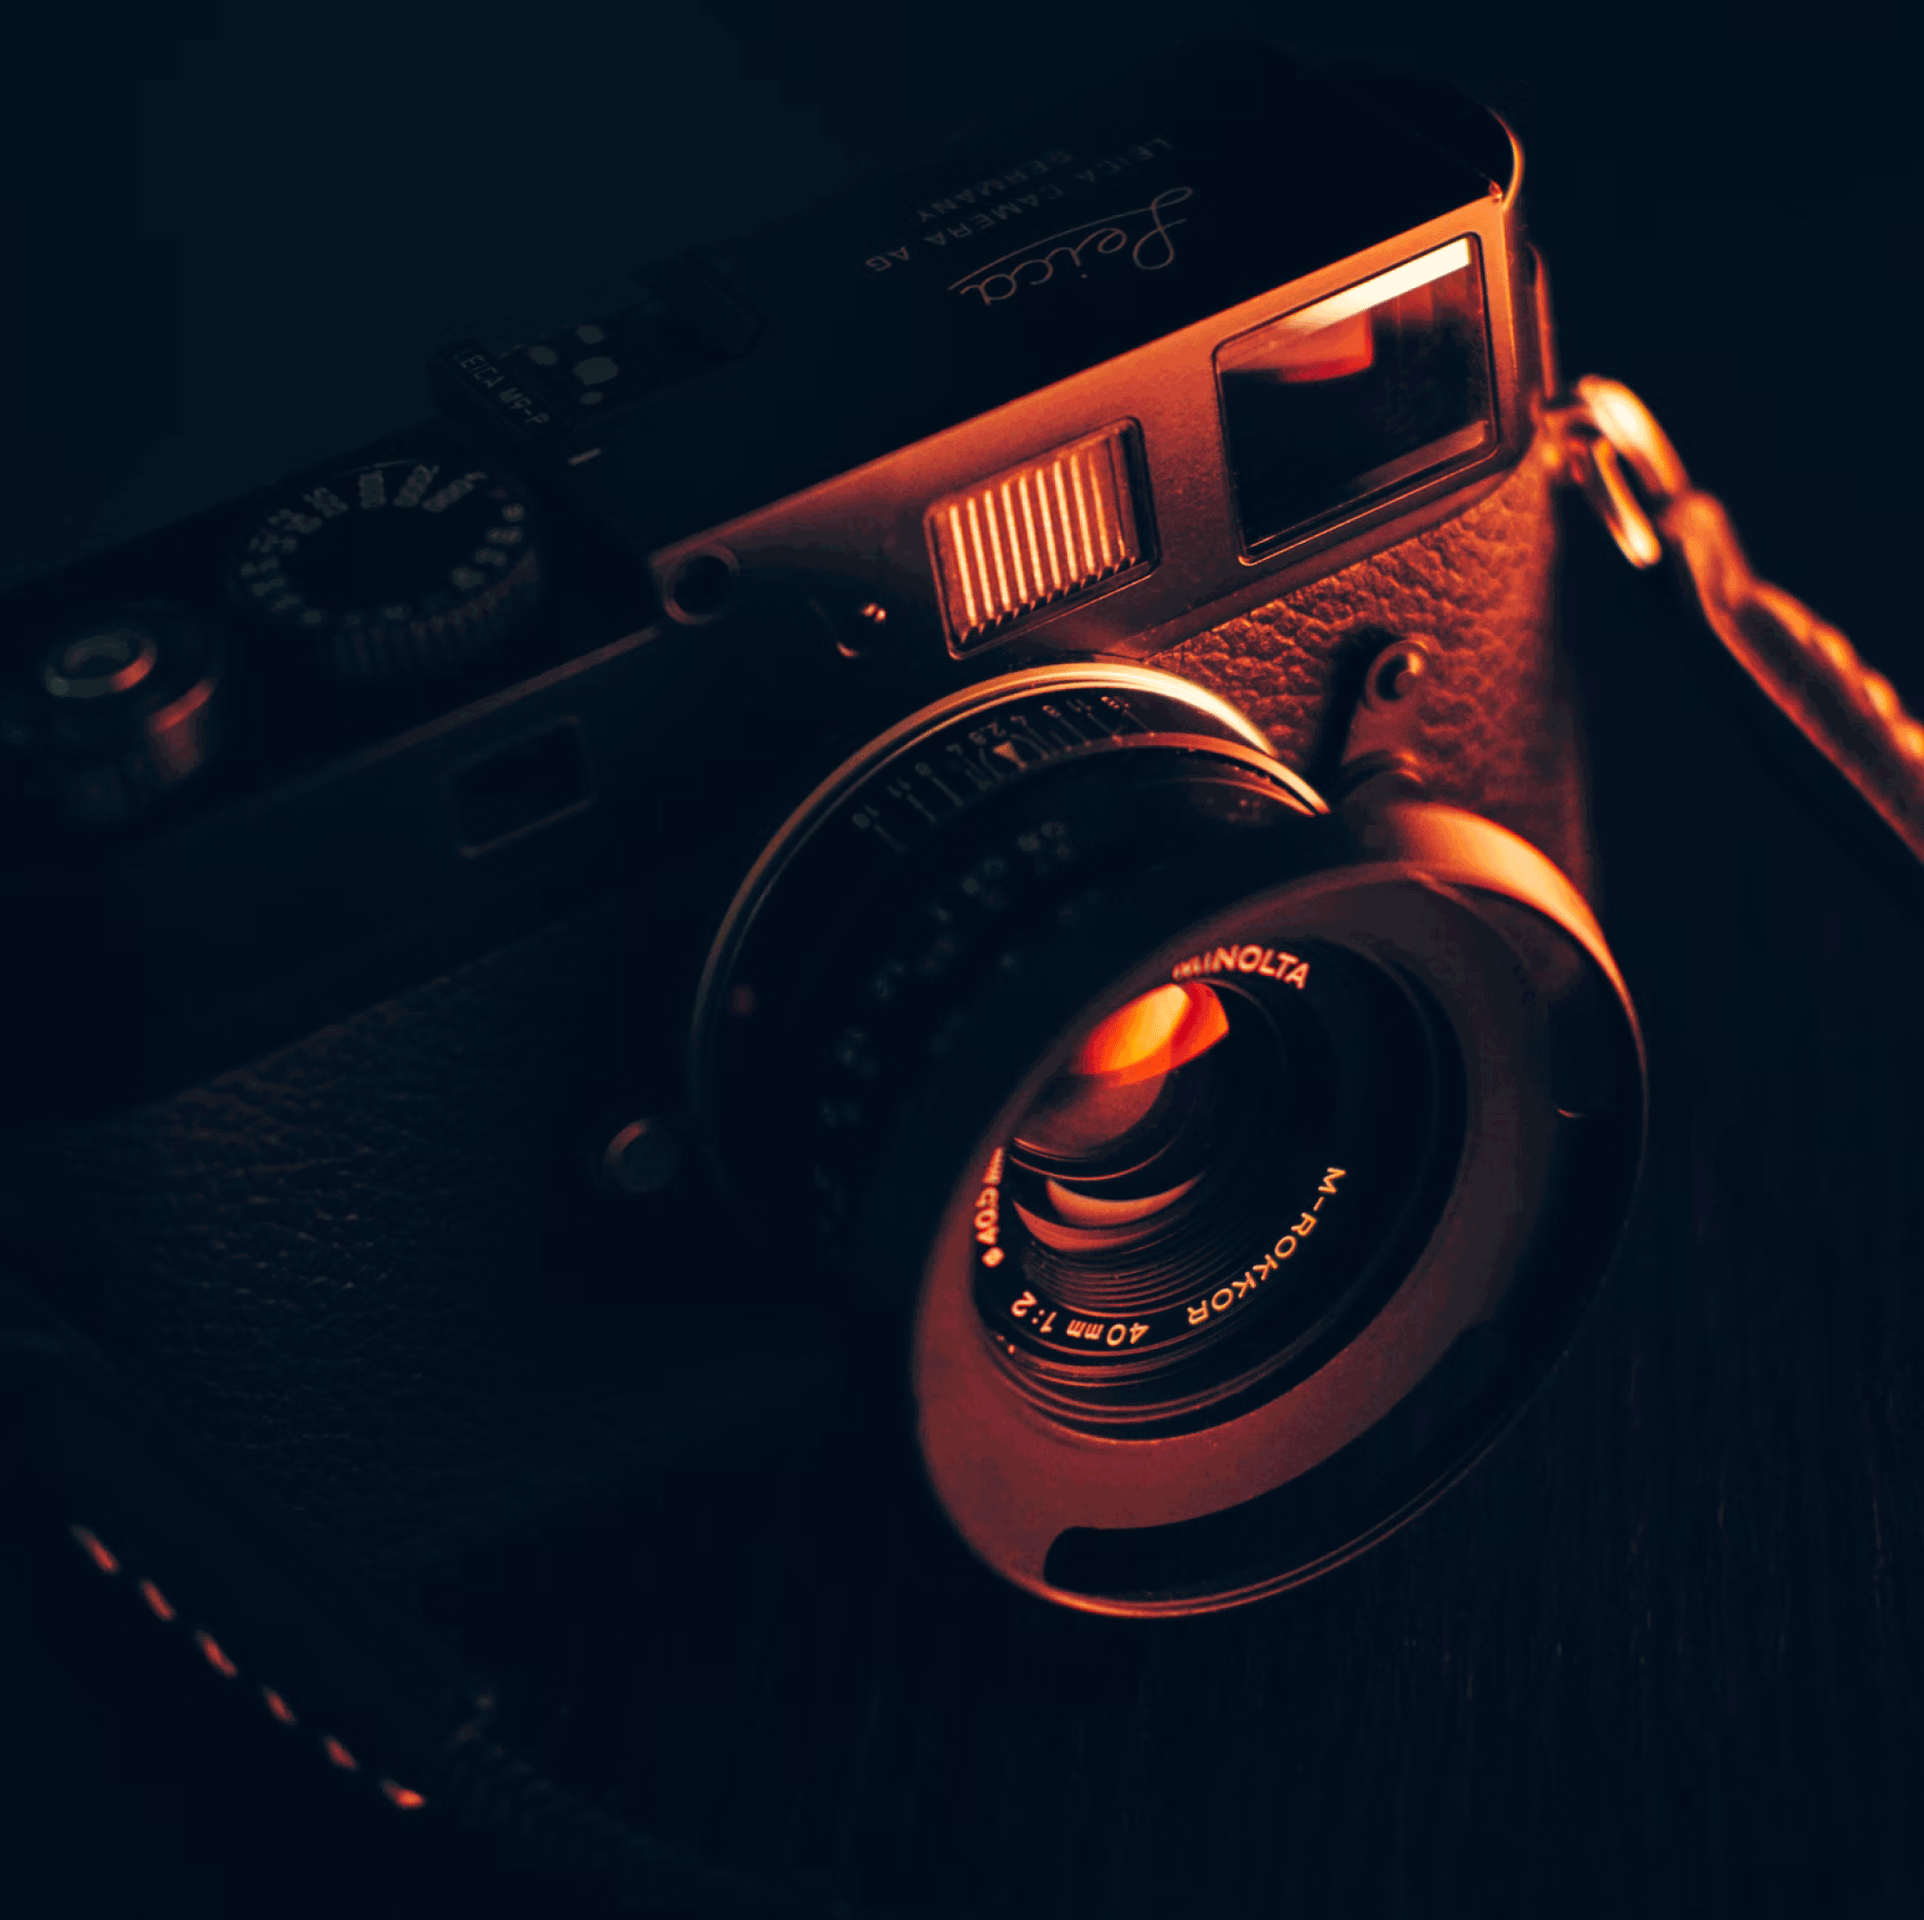
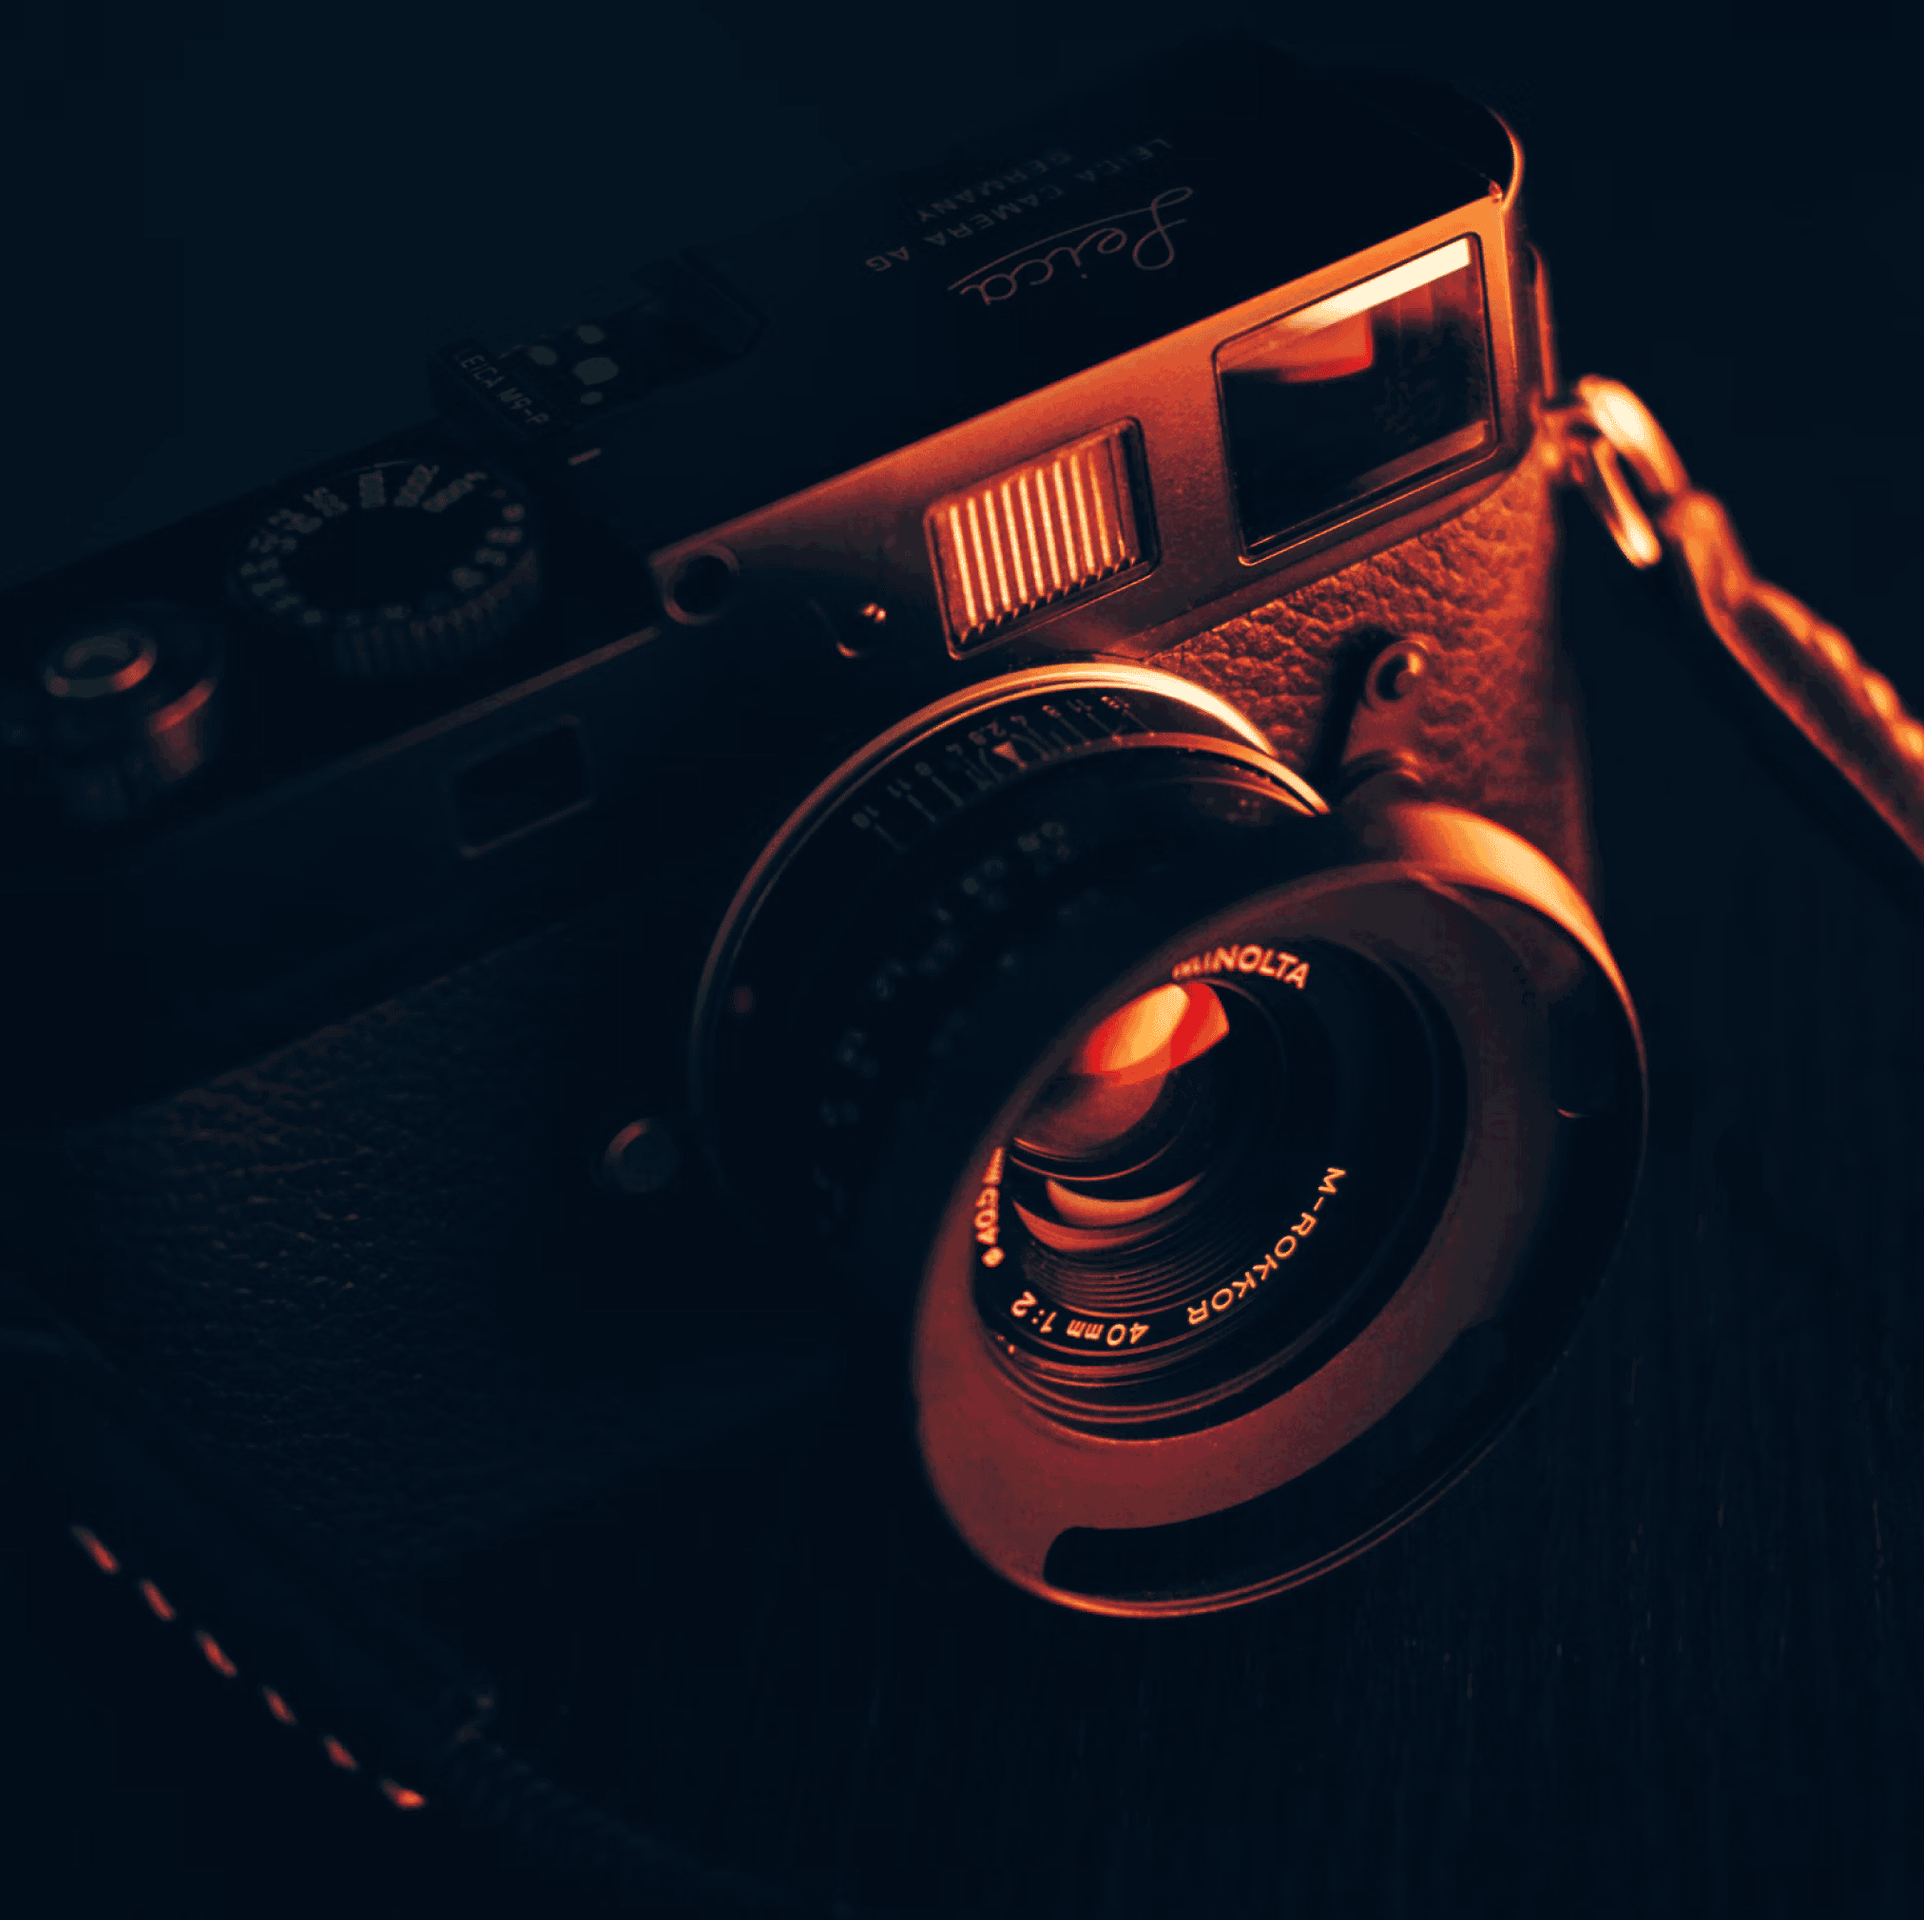
compression au max des images du site

diff --git a/index.html b/index.html
@@ -1,5 +1,5 @@
 <!DOCTYPE html>
-<html>
+<html lang="fr">
 <head>
 	<meta name="viewport" content="width=device-width, initial-scale=1.0">
 	<link rel="stylesheet" href="./assets/bootstrap/bootstrap.css">
@@ -15,7 +15,7 @@
 	<title>Nina Carducci</title>
 	<meta name="description" content="Portfolio de la photographe Nina Carducci qui présente ses différents travaux de photograhie"/>
 </head>
-<body lang="fr">
+<body>
 <header>
 	<h1 class="name">Nina Carducci</h1>
 	<nav class="nav">   
